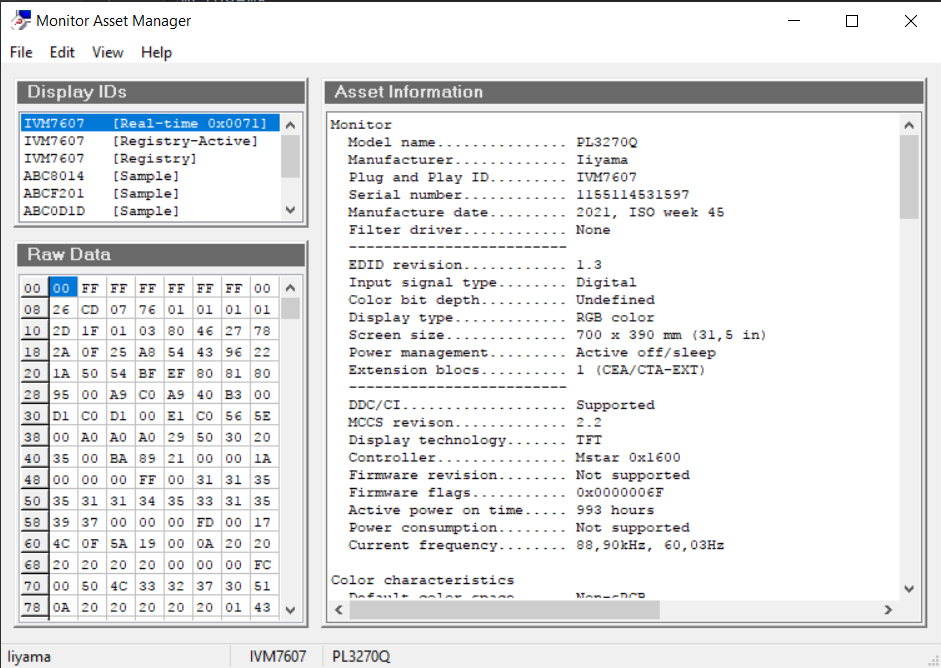
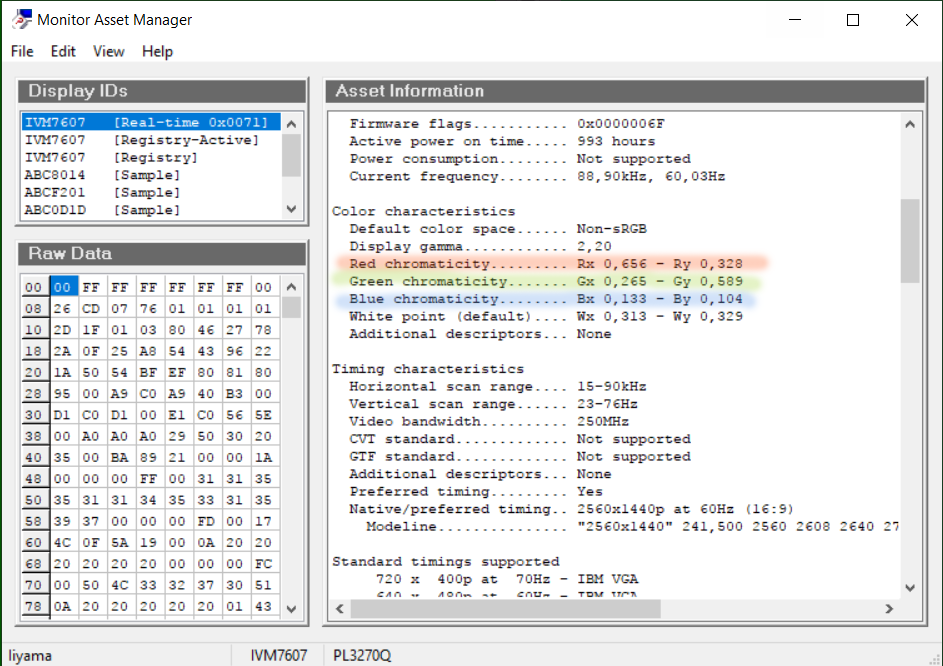
commit

diff --git a/content/post/2023.01.05-ohvat-monitora/index.md b/content/post/2023.01.05-ohvat-monitora/index.md
@@ -1,6 +1,6 @@
 ---
 title: "Как быстро определить охват монитора"
-date: 2022-12-02T15:54:41+02:00
+date: 2023-01-05T15:54:47+02:00
 draft: false
 ---
 
@@ -19,4 +19,14 @@ draft: false
 Обычно это довольно точные цифры.
 
 ![](images/im1.png)
+
+### Заносим значения в калькулятор
+
+[Locus of area CIE xy • Охват монитора](https://cielab.xyz/xylocus.php)
+
+Заносим шесть значеий `x` и `y` координат в калькулятор, нажимаем кнопку `Calc`,
+получаем треугольник цветового охвата. 
+
+Имеес смысл сравнивать с целевыми охватами sRGB и Adobe RGB. Любой пригодный для работы монитор должен иметь полный охват sRGB,
+а профессиональный - стремиться к полному охвату Adobe RGB.
 
